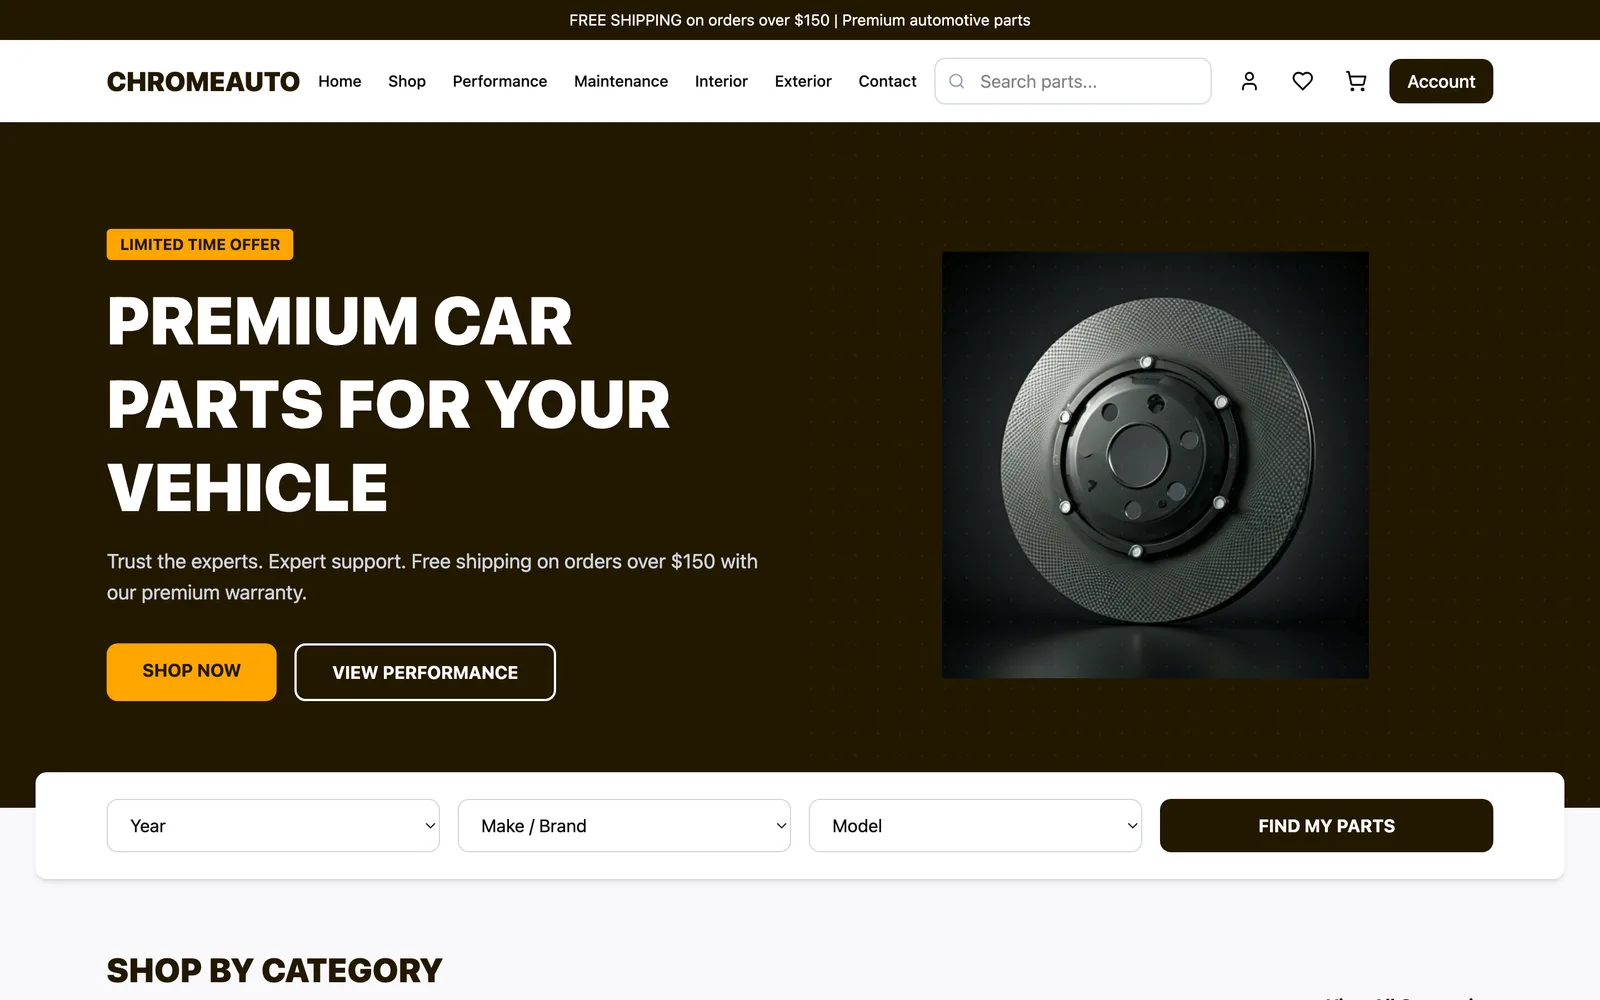
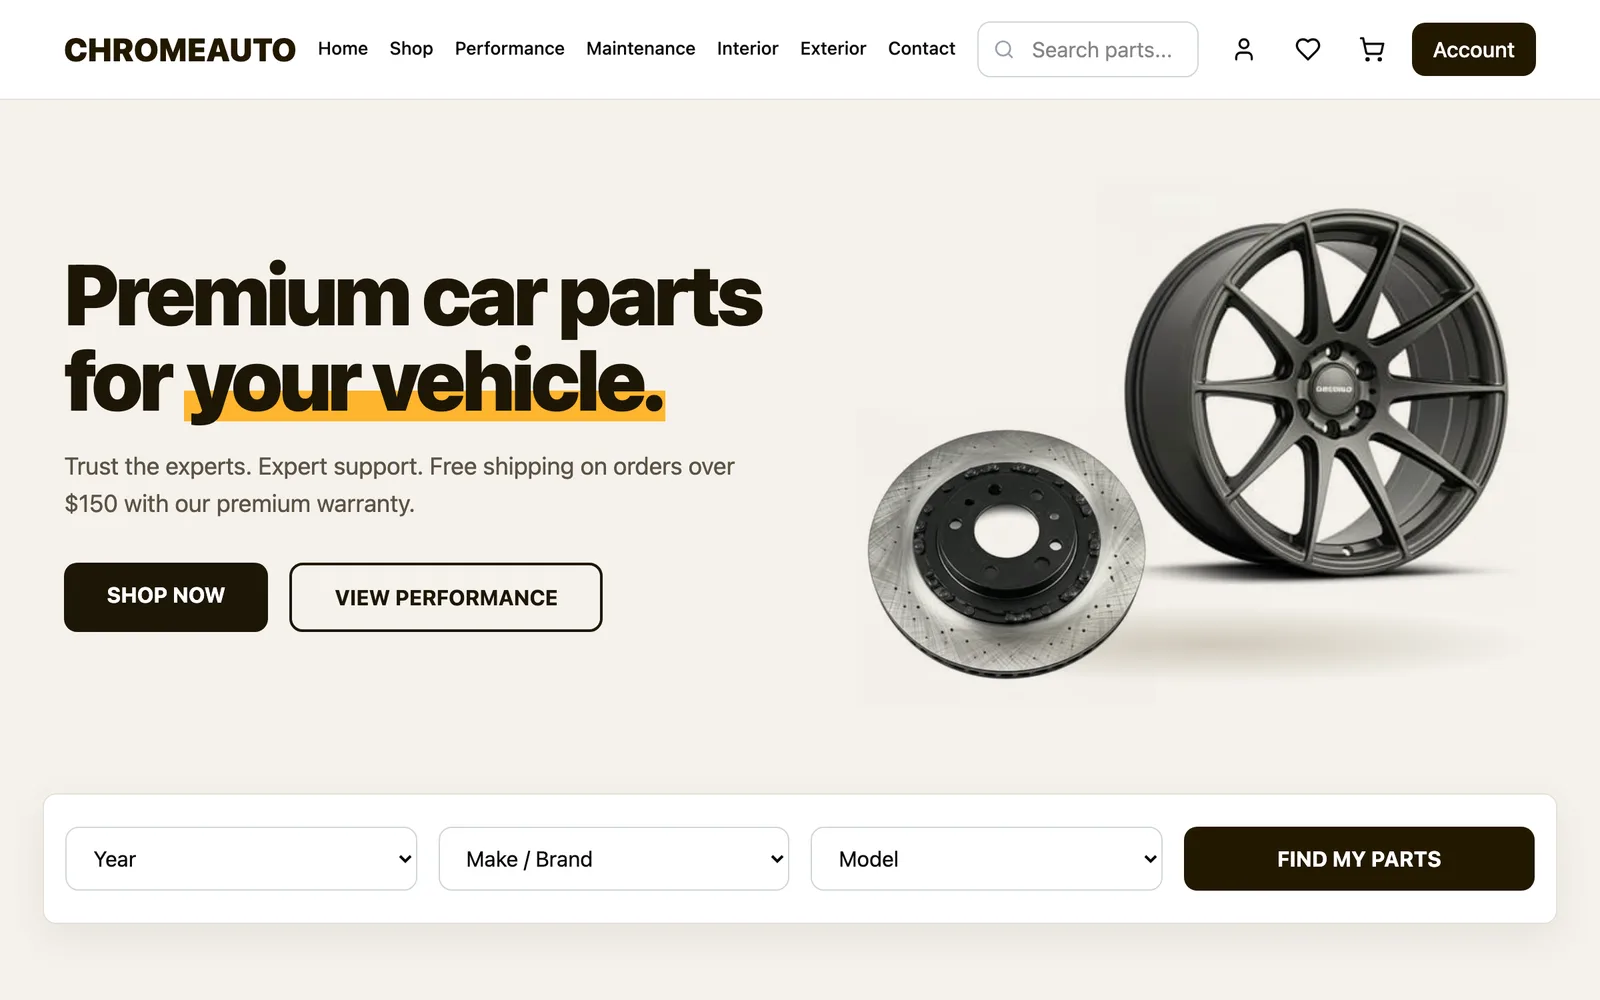
Work: cleaner previews for the exchange and the car parts store
The exchange preview now shows the headline next to its rates card,
without the trust badges we can't back up. The car parts store gets a
light hero with a wheel and a brake disc, which also balances a Work
grid where most previews are dark.

diff --git a/src/data/projects.ts b/src/data/projects.ts
@@ -124,7 +124,7 @@ const seeds: Seed[] = [
     services: ['Web Apps & SaaS'],
     summary:
       'A crypto-to-fiat exchange: sign-up with email verification and KYC, a dashboard, exchanges with live status, wallet deposits by QR code, transaction history and an admin view. React and Supabase.',
-    image: { src: cryptoExchangeShot, alt: 'The exchange home page: "Convert Crypto to Real Money in Minutes" with its call to action' },
+    image: { src: cryptoExchangeShot, alt: 'The exchange home page: "Convert Crypto to Real Money in Minutes" next to a card of exchange rates' },
   },
   {
     slug: 'car-parts-store',
@@ -132,7 +132,7 @@ const seeds: Seed[] = [
     services: ['Websites & Landing Pages'],
     summary:
       'An online store for car parts and performance accessories: shop, product pages, cart, checkout and customer account. React and TypeScript, with automated tests, shipped in Docker.',
-    image: { src: carPartsShot, alt: 'The car parts store home page: a brake disc hero, search by year, make and model' },
+    image: { src: carPartsShot, alt: 'The car parts store home page: "Premium car parts for your vehicle" with a wheel, a brake disc and a search by year, make and model' },
   },
   {
     slug: 'electronics-store',
